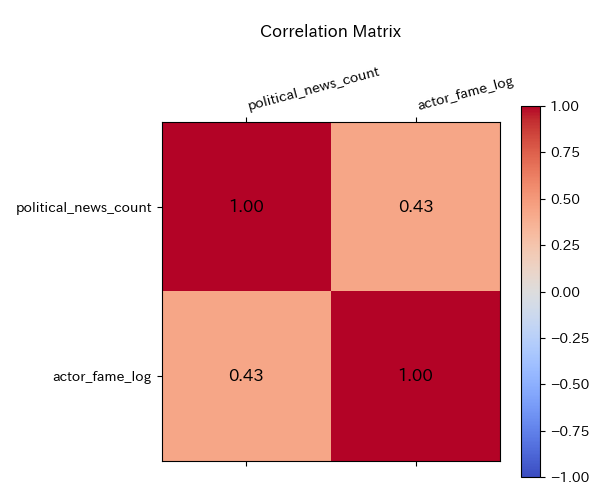
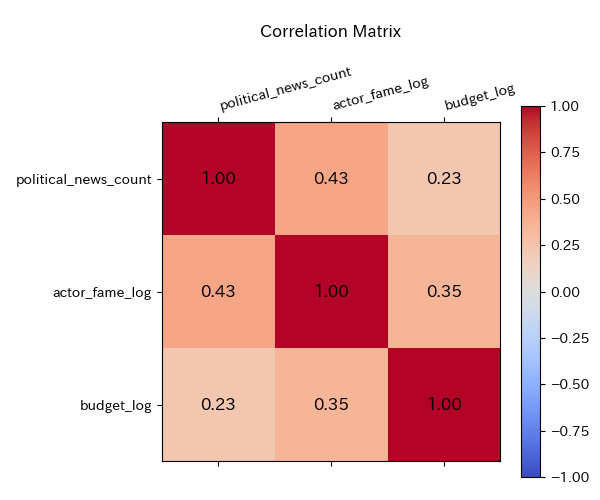
fourth commit

diff --git a/new_src/main.py b/new_src/main.py
@@ -1,8 +1,11 @@
+import pandas as pd
 import statsmodels.formula.api as smf
 from data_processing import load_and_preprocess_data
-from visualization import plot_distributions, plot_financials, plot_additional_exploratory_analysis, save_regression_summary
-from visualization import analyze_threshold_sensitivity
-from bayesian_analysis import execute_bayesian_analysis
+from visualization import (
+    plot_distributions, plot_financials, 
+    plot_additional_exploratory_analysis, save_regression_summary,
+    analyze_threshold_sensitivity
+)
 
 INPUT_FILE = "new_data/movies_with_news.csv"
 
@@ -10,50 +13,88 @@ def main():
     print("Loading data...")
     df = load_and_preprocess_data(INPUT_FILE)
     
-    # 可視化して画像を保存
+    # データの可視化
     print("\nGenerating visualizations...")
     plot_distributions(df)
     plot_financials(df)
     plot_additional_exploratory_analysis(df)
-    print(df[["actor_fame_log", "budget_log", "political_news_count"]].corr())
 
-    # 共通フォーミュラ
-    base_formula = """
-        political_news_count + actor_fame_log + budget_log + belongs_to_collection + 
-        Genre_Drama + Genre_Comedy + Genre_Thriller + 
-        Genre_Action + Genre_Adventure + Genre_Romance + Genre_Crime + 
-        Genre_Science_Fiction + Genre_Family + Genre_Horror
-    """
+    # 比較したいモデル構成の定義
+    # ジャンル変数の共通部分
+    genres = "Genre_Drama + Genre_Comedy + Genre_Thriller + Genre_Action + Genre_Adventure + Genre_Romance + Genre_Crime + Genre_Science_Fiction + Genre_Family + Genre_Horror"
     
-    # Model 1: Revenue
-    print("\n=== OLS: Revenue Log ===")
-    f_rev = f"revenue_log ~ {base_formula}"
-    model_rev = smf.ols(f_rev, data=df).fit()
-    print(model_rev.summary())
-    save_regression_summary(model_rev, "summary_new_method_revenue.png")
+    formula_bases = {
+        # 基本モデル
+        "Base": f"political_news_count + actor_fame_log + budget_log + belongs_to_collection + {genres}",
 
-    # Model 2: ROI (Log)
-    print("\n=== OLS: ROI Log ===")
-    f_rev = f"roi_log ~ {base_formula}"
-    model_rev = smf.ols(f_rev, data=df).fit()
-    print(model_rev.summary())
-    save_regression_summary(model_rev, "summary_new_method_roi.png")
-    
-    # Model 3: ROI (Logistic)
-    print("\n=== Logit: High ROI ===")
-    f_logit = f"is_high_roi ~ {base_formula}"
-    model_logit = smf.logit(f_logit, data=df).fit()
-    print(model_logit.summary())
-    save_regression_summary(model_logit, "summary_new_method_logit.png")
+        # 非線形性モデル
+        "Quadratic": f"political_news_count + I(political_news_count**2) + actor_fame_log + budget_log + belongs_to_collection + {genres}",
 
-    # Sensitivity Analysis
+        # 交差項
+        "News_Fame": f"political_news_count * actor_fame_log + budget_log + belongs_to_collection + {genres}",
+        "News_Budget": f"political_news_count * budget_log + actor_fame_log + belongs_to_collection + {genres}",
+        "News_Collection": f"political_news_count * belongs_to_collection + actor_fame_log + budget_log + {genres}",
+
+        # 3元交差項
+        "News_Fame_Budget": f"political_news_count * actor_fame_log * budget_log + belongs_to_collection + {genres}",
+        "News_Fame_Collection": f"political_news_count * actor_fame_log * belongs_to_collection + budget_log + {genres}",
+        "News_Budget_Collection": f"political_news_count * budget_log * belongs_to_collection + actor_fame_log + {genres}",
+
+        # フルモデル
+        "Full_Complex": f"political_news_count * actor_fame_log * budget_log * belongs_to_collection + {genres}"
+    }
+
+    # 目的変数とモデルタイプの定義
+    targets = [
+        {"name": "Revenue", "dep_var": "revenue_log", "type": "ols"},
+        {"name": "ROI", "dep_var": "roi_log", "type": "ols"},
+        {"name": "High_ROI", "dep_var": "is_high_roi", "type": "logit"}
+    ]
+
+    # モデル比較の実行
+    comparison_results = []
+
+    for base_name, base_formula in formula_bases.items():
+        print(f"\n{'='*20} Testing Base: {base_name} {'='*20}")
+        
+        for target in targets:
+            full_formula = f"{target['dep_var']} ~ {base_formula}"
+            print(f"\n--- Running {target['type'].upper()} for {target['name']} ---")
+            
+            try:
+                if target['type'] == "ols":
+                    model = smf.ols(full_formula, data=df).fit()
+
+                else:
+                    model = smf.logit(full_formula, data=df).fit()
+                
+                # 結果の表示と保存
+                print(model.summary())
+                file_name = f"summary_{base_name}_{target['name']}.png"
+                save_regression_summary(model, file_name)
+                
+                # 比較用メトリクスの保存
+                comparison_results.append({
+                    "Base": base_name,
+                    "Target": target['name'],
+                    "AIC": model.aic,
+                    "BIC": model.bic
+                })
+            
+            except Exception as e:
+                print(f"Error fitting {base_name} for {target['name']}: {e}")
+
+    # 比較結果の要約表示
+    print("\n" + "="*30)
+    print("MODEL COMPARISON SUMMARY")
+    print("="*30)
+    comparison_df = pd.DataFrame(comparison_results)
+    print(comparison_df.sort_values(by=["Target", "AIC"])) # AICが低い順に並び替え
+
+    # 感度分析（代表として1つのフォーミュラで実行）
     print('\n========== Sensitivity Analysis ==========')
-    target_variable = 'political_news_count' 
-    formula_template = f"dummy ~ {base_formula}"
-    analyze_threshold_sensitivity(df, formula_template, target_variable)
-
-    # Bayesian Analysis
-    execute_bayesian_analysis()
+    sensitivity_formula = f"dummy ~ {formula_bases['News_Budget']}"
+    analyze_threshold_sensitivity(df, sensitivity_formula, 'political_news_count:budget_log')
 
 if __name__ == "__main__":
     main()

diff --git a/new_src/visualization.py b/new_src/visualization.py
@@ -129,7 +129,7 @@ def plot_additional_exploratory_analysis(df):
     save_plot("scatter_political_fame.png")
 
     # 相関行列の計算と表示
-    corr_cols = ["political_news_count", 'actor_fame_log']
+    corr_cols = ["political_news_count", 'actor_fame_log','budget_log']
     corr_mat = df[corr_cols].corr()
     print("\n[Correlation Matrix]")
     print(corr_mat)

diff --git a/README.md b/README.md
@@ -3,7 +3,6 @@
 
 ## 概要
 このプロジェクトは、映画公開前後にキャストに関する「政治的なニュース」がどの程度報道されたかを定量化し、それが映画の興行収入 (Revenue) や 投資対効果 (ROI)に与える影響を統計的に分析します。
-Kaggleの映画データセットとGoogle Newsの検索結果を結合し、頻度論的アプローチ（Statsmodels）とベイズ統計的アプローチ（PyMC）の両方を用いてモデリングを行います。
 
 ## ディレクトリ構成
 
@@ -18,8 +17,8 @@ Kaggleの映画データセットとGoogle Newsの検索結果を結合し、頻
 │   ├── fetch_movie_news.py         # ニュース取得
 │   ├── data_processing.py          # 前処理・特徴量エンジニアリング用モジュール
 │   ├── visualization.py            # 可視化・グラフ描画用モジュール
-│   ├── bayesian_analysis.py        # ベイズ統計分析用モジュール (MCMC, PyMC)
-│   └── main.py                     # 頻度論的統計分析 (OLS, ロジスティック回帰, 感度分析)・ベイズ統計分析
+│   ├── main.py                     # OLS, ロジスティック回帰, 感度分析
+│   └── bayesian_analysis.py        # ベイズ統計分析用モジュール (今回は使用せず)
 │
 ├── data/                       # データセット保存用
 ├── image/                      # 分析結果のグラフ保存用
@@ -79,11 +78,8 @@ python fetch_movie_news.py
 **俳優の有名度の計算**
 各俳優ごとに直近3年間の出演作品の興行収入の平均を算出し、主要俳優の平均を各映画の俳優の有名度とする。
 
-**A. 頻度論的分析 (Frequentist Analysis)**
-Statsmodelsを用いたOLS（最小二乗法）およびロジスティック回帰を実行します。閾値の感度分析も含まれます。
-
-**B. ベイズ統計分析 (Bayesian Analysis)**
-PyMCを用いたMCMCサンプリングを行い、事後分布の推定を行います。特に「政治的ニュースの割合」と「ニュース総数」の交互作用項に注目します。
+**回帰モデル**
+Statsmodelsを用いてOLS（最小二乗法）およびロジスティック回帰を実行します。非線形の効果や交互作用の効果も分析します。閾値の感度分析も行います。
 
 ```bash
 python main.py
@@ -92,10 +88,10 @@ python main.py
 *出力: 回帰分析のサマリ、分布図、感度分析プロット、トレースプロット、事後分布プロットなどが `new_image/` フォルダに保存されます。*
 
 ## 分析内容の詳細
-俳優による政治的な報道の多さ（political_news_count）が、映画の興行収入（Revenue）および投資対効果（ROI）に与える影響について統計モデルを用いて分析を行った。\par
-当初の調査では、全ニュース記事に対する政治的記事の「割合（political_ratio）」を説明変数としていた。しかしpolitical_ratioはデータの大半がデータがゼロ付近に大きく偏在しており分析が困難であった。またデータ収集に用いた pygooglenews には1映画あたり100件という取得上限があり、対象の約67％（948件）がこの上限に到達していた。Google Newsのアルゴリズムは関連度順であるため、これら上限到達データは無作為抽出とは見なせず、選択バイアスの懸念があった。 そのため、検索クエリに政治的語彙を含めることで対象を絞り込む手法へ変更した。これにより上限到達データは全体の3.68％（53件）まで減少し、上限ダミー変数を要さずに分析可能なデータセットを構築した。\par
-また新しい手法では「割合」ではなく記事の「件数」を扱うため、俳優の知名度がニュース数に与える影響を排除する必要がある。そのため、俳優の有名度を表す変数を新たに定義し、共変量としてモデルに投入した。\par
-さらに頻度論的な仮説検定におけるp値の解釈の限界を考慮し、ベイズ推定を採用した。事前分布を設定し、回帰係数の事後分布を推定することで、効果の大きさおよびその不確実性を直接的に評価する。
+俳優による政治的な報道の多さ（political_news_count）が、映画の興行収入（Revenue）および投資対効果（ROI）に与える影響について統計モデルを用いて分析を行った。
+当初の調査では、全ニュース記事に対する政治的記事の「割合（political_ratio）」を説明変数としていた。しかしpolitical_ratioはデータの大半がデータがゼロ付近に大きく偏在しており分析が困難であった。またデータ収集に用いた pygooglenews には1映画あたり100件という取得上限があり、対象の約67％（948件）がこの上限に到達していた。Google Newsのアルゴリズムは関連度順であるため、これら上限到達データは無作為抽出とは見なせず、選択バイアスの懸念があった。 そのため、検索クエリに政治的語彙を含めることで対象を絞り込む手法へ変更した。これにより上限到達データは全体の3.68％（53件）まで減少し、上限ダミー変数を要さずに分析可能なデータセットを構築した。
+また新しい手法では「割合」ではなく記事の「件数」を扱うため、俳優の知名度がニュース数に与える影響を排除する必要がある。そのため、俳優の有名度を表す変数を新たに定義し、共変量としてモデルに投入した。
+
 ### 1\. 特徴量エンジニアリング (`data_processing.py`)
 
   * **目的変数:**
@@ -114,9 +110,9 @@ python main.py
   * 箱ひげ図
   * ヒートマップ
   * 回帰分析結果のサマリ画像出力
-  * ベイズモデルの事後分布の画像出力
 
 ### 3\. モデリング
+  さまざまな共通項を使って、下のモデルの効果を調べた。
   * **Model 1 & 2 (OLS):** `revenue_log` および `roi_log` に対する線形回帰。
   * **Model 3 (Logistic):** `is_high_roi` に対するロジスティック回帰。
   * **感度分析:** `is_high_roi` を決定する閾値を変動させた際、説明変数の係数がどう変化するかを確認。
